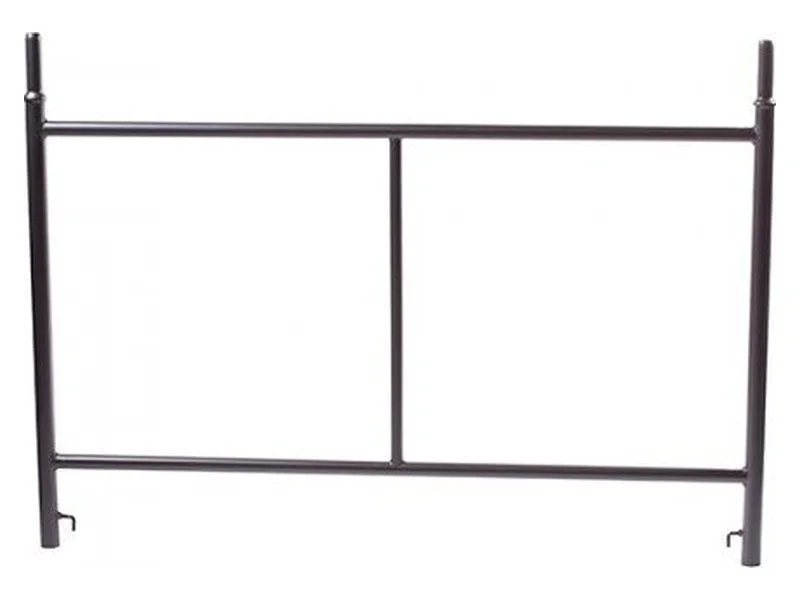
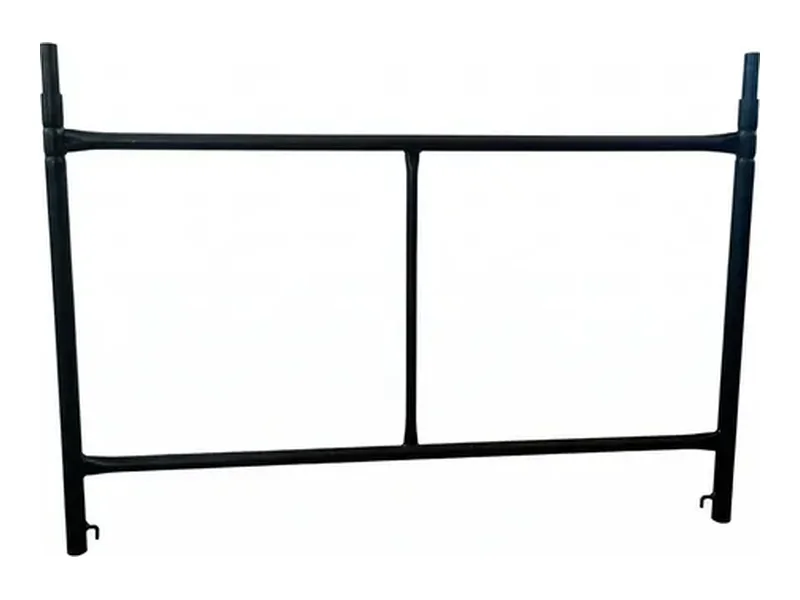
Usa fotos reais dos produtos
Claude-Session: https://claude.ai/code/session_013N8ypU7Q4yqaWW3cgXZRdG

Changed region(s): [[0.0312, 0.03, 0.9688, 0.96]]

diff --git a/lib/site.ts b/lib/site.ts
@@ -48,12 +48,12 @@ export const padrao: Site = {
   itens: [
     { id: "andaime-1m", nome: "Andaime 1 m", descricao: "Painel tubular de 1 m de largura. Ideal para espaços estreitos.", foto: "/produtos/andaime-1m.webp", categoria: "andaime", grupo: "largura", regra: "por_metro", quantidade: 2, ajustavel: true },
     { id: "andaime-15m", nome: "Andaime 1,5 m", descricao: "Painel tubular de 1,5 m de largura. Mais área de trabalho.", foto: "/produtos/andaime-15m.webp", categoria: "andaime", grupo: "largura", regra: "por_metro", quantidade: 2, ajustavel: true },
-    { id: "travessa", nome: "Travessa", descricao: "Travamento em X que dá rigidez à torre.", foto: "/produtos/travessa.svg", categoria: "acessorio", grupo: "", regra: "por_metro", quantidade: 1, ajustavel: true },
-    { id: "sapatas", nome: "Sapatas (jogo com 4)", descricao: "Base fixa e nivelada para a torre.", foto: "/produtos/sapatas.svg", categoria: "acessorio", grupo: "base", regra: "por_torre", quantidade: 1, ajustavel: true },
-    { id: "rodinhas", nome: "Rodinhas (jogo com 4)", descricao: "Base com rodízios para mover a torre.", foto: "/produtos/rodinhas.svg", categoria: "acessorio", grupo: "base", regra: "por_torre", quantidade: 1, ajustavel: true },
-    { id: "plataforma-p", nome: "Plataforma pequena", descricao: "Piso de trabalho para o andaime de 1 m.", foto: "/produtos/plataforma-pequena.svg", categoria: "acessorio", grupo: "", regra: "opcional", quantidade: 0, ajustavel: true },
-    { id: "plataforma-g", nome: "Plataforma grande", descricao: "Piso de trabalho para o andaime de 1,5 m.", foto: "/produtos/plataforma-grande.svg", categoria: "acessorio", grupo: "", regra: "opcional", quantidade: 0, ajustavel: true },
-    { id: "escada", nome: "Escada", descricao: "Acesso seguro aos níveis da torre.", foto: "/produtos/escada.svg", categoria: "acessorio", grupo: "", regra: "opcional", quantidade: 0, ajustavel: true },
+    { id: "travessa", nome: "Travessa", descricao: "Travamento em X que dá rigidez à torre.", foto: "/produtos/travessa.webp", categoria: "acessorio", grupo: "", regra: "por_metro", quantidade: 1, ajustavel: true },
+    { id: "sapatas", nome: "Sapatas (jogo com 4)", descricao: "Base fixa e nivelada para a torre.", foto: "/produtos/sapatas.webp", categoria: "acessorio", grupo: "base", regra: "por_torre", quantidade: 1, ajustavel: true },
+    { id: "rodinhas", nome: "Rodinhas (jogo com 4)", descricao: "Base com rodízios para mover a torre.", foto: "/produtos/rodinhas.webp", categoria: "acessorio", grupo: "base", regra: "por_torre", quantidade: 1, ajustavel: true },
+    { id: "plataforma-p", nome: "Plataforma pequena", descricao: "Piso de trabalho para o andaime de 1 m.", foto: "/produtos/plataforma-pequena.webp", categoria: "acessorio", grupo: "", regra: "opcional", quantidade: 0, ajustavel: true },
+    { id: "plataforma-g", nome: "Plataforma grande", descricao: "Piso de trabalho para o andaime de 1,5 m.", foto: "/produtos/plataforma-grande.webp", categoria: "acessorio", grupo: "", regra: "opcional", quantidade: 0, ajustavel: true },
+    { id: "escada", nome: "Escada", descricao: "Acesso seguro aos níveis da torre.", foto: "/produtos/escada.webp", categoria: "acessorio", grupo: "", regra: "opcional", quantidade: 0, ajustavel: true },
   ],
   servicos: [
     { titulo: "Entrega", descricao: "Levamos o equipamento até a sua obra." },
